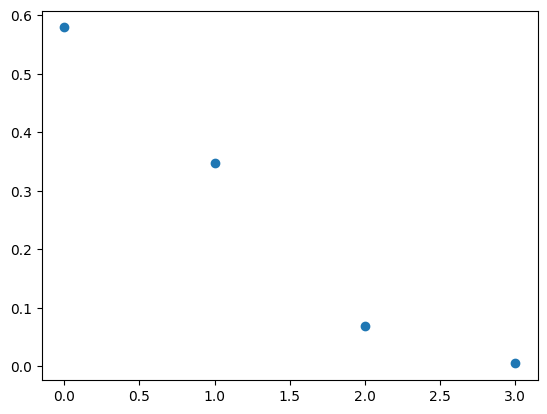
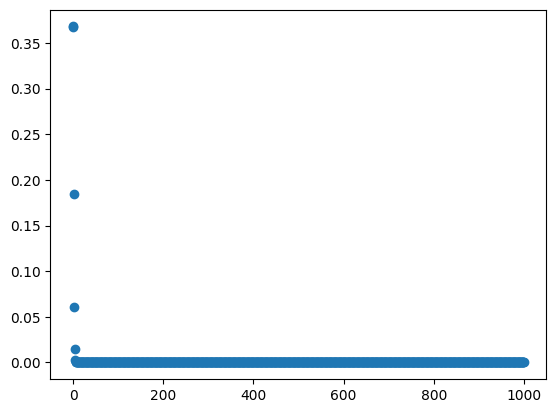
update 314:binomial notes

diff --git a/_site/314/binomial.html b/_site/314/binomial.html
@@ -127,17 +127,18 @@ pre > code.sourceCode > span > a:first-child::before { text-decoration: underlin
 <span id="cb1-2"><a href="#cb1-2" aria-hidden="true" tabindex="-1"></a><span class="im">import</span> scipy.stats <span class="im">as</span> st</span>
 <span id="cb1-3"><a href="#cb1-3" aria-hidden="true" tabindex="-1"></a><span class="im">import</span> matplotlib.pyplot <span class="im">as</span> plt</span></code><button title="Copy to Clipboard" class="code-copy-button"><i class="bi"></i></button></pre></div>
 </div>
-<div id="46e2a066-2f94-4bf2-a9d2-acac4ecb7702" class="cell" data-execution_count="2">
-<div class="sourceCode cell-code" id="cb2"><pre class="sourceCode python code-with-copy"><code class="sourceCode python"><span id="cb2-1"><a href="#cb2-1" aria-hidden="true" tabindex="-1"></a>B <span class="op">=</span> st.binom(<span class="dv">3</span>, <span class="dv">1</span><span class="op">/</span><span class="dv">6</span>) <span class="co"># random variable</span></span></code><button title="Copy to Clipboard" class="code-copy-button"><i class="bi"></i></button></pre></div>
+<div id="46e2a066-2f94-4bf2-a9d2-acac4ecb7702" class="cell" data-execution_count="7">
+<div class="sourceCode cell-code" id="cb2"><pre class="sourceCode python code-with-copy"><code class="sourceCode python"><span id="cb2-1"><a href="#cb2-1" aria-hidden="true" tabindex="-1"></a>B <span class="op">=</span> st.binom(<span class="dv">1000</span>, <span class="fl">0.001</span>) <span class="co"># random variable</span></span></code><button title="Copy to Clipboard" class="code-copy-button"><i class="bi"></i></button></pre></div>
 </div>
-<div id="585d7e63-e32f-4b72-afb1-9b6e98b54c2e" class="cell" data-execution_count="3">
-<div class="sourceCode cell-code" id="cb3"><pre class="sourceCode python code-with-copy"><code class="sourceCode python"><span id="cb3-1"><a href="#cb3-1" aria-hidden="true" tabindex="-1"></a>k <span class="op">=</span> np.arange(<span class="dv">4</span>)</span>
+<div id="585d7e63-e32f-4b72-afb1-9b6e98b54c2e" class="cell" data-execution_count="8">
+<div class="sourceCode cell-code" id="cb3"><pre class="sourceCode python code-with-copy"><code class="sourceCode python"><span id="cb3-1"><a href="#cb3-1" aria-hidden="true" tabindex="-1"></a>k <span class="op">=</span> np.arange(<span class="dv">1001</span>)</span>
 <span id="cb3-2"><a href="#cb3-2" aria-hidden="true" tabindex="-1"></a>B.pmf(k) <span class="co"># density function, AKA probability mass function</span></span></code><button title="Copy to Clipboard" class="code-copy-button"><i class="bi"></i></button></pre></div>
-<div class="cell-output cell-output-display" data-execution_count="3">
-<pre><code>array([0.5787037 , 0.34722222, 0.06944444, 0.00462963])</code></pre>
+<div class="cell-output cell-output-display" data-execution_count="8">
+<pre><code>array([0.36769542, 0.36806349, 0.18403174, ..., 0.        , 0.        ,
+       0.        ])</code></pre>
 </div>
 </div>
-<div id="6c8d01c8-16cd-4f90-8f90-24d1ca4a977b" class="cell" data-execution_count="5">
+<div id="6c8d01c8-16cd-4f90-8f90-24d1ca4a977b" class="cell" data-execution_count="9">
 <div class="sourceCode cell-code" id="cb5"><pre class="sourceCode python code-with-copy"><code class="sourceCode python"><span id="cb5-1"><a href="#cb5-1" aria-hidden="true" tabindex="-1"></a>plt.scatter(k, B.pmf(k))<span class="op">;</span></span></code><button title="Copy to Clipboard" class="code-copy-button"><i class="bi"></i></button></pre></div>
 <div class="cell-output cell-output-display">
 <div>
@@ -145,6 +146,12 @@ pre > code.sourceCode > span > a:first-child::before { text-decoration: underlin
 <p><img src="binomial_files/figure-html/cell-5-output-1.png" class="img-fluid figure-img"></p>
 </figure>
 </div>
+</div>
+</div>
+<div id="f101bcd7-e255-440a-a639-cff9d845d2a8" class="cell" data-execution_count="12">
+<div class="sourceCode cell-code" id="cb6"><pre class="sourceCode python code-with-copy"><code class="sourceCode python"><span id="cb6-1"><a href="#cb6-1" aria-hidden="true" tabindex="-1"></a>np.<span class="bu">sum</span>(B.pmf(np.arange(<span class="dv">100</span>, <span class="dv">1001</span>))) <span class="co"># P[X &gt;= 100]</span></span></code><button title="Copy to Clipboard" class="code-copy-button"><i class="bi"></i></button></pre></div>
+<div class="cell-output cell-output-display" data-execution_count="12">
+<pre><code>2.6181505053540243e-161</code></pre>
 </div>
 </div>
 
